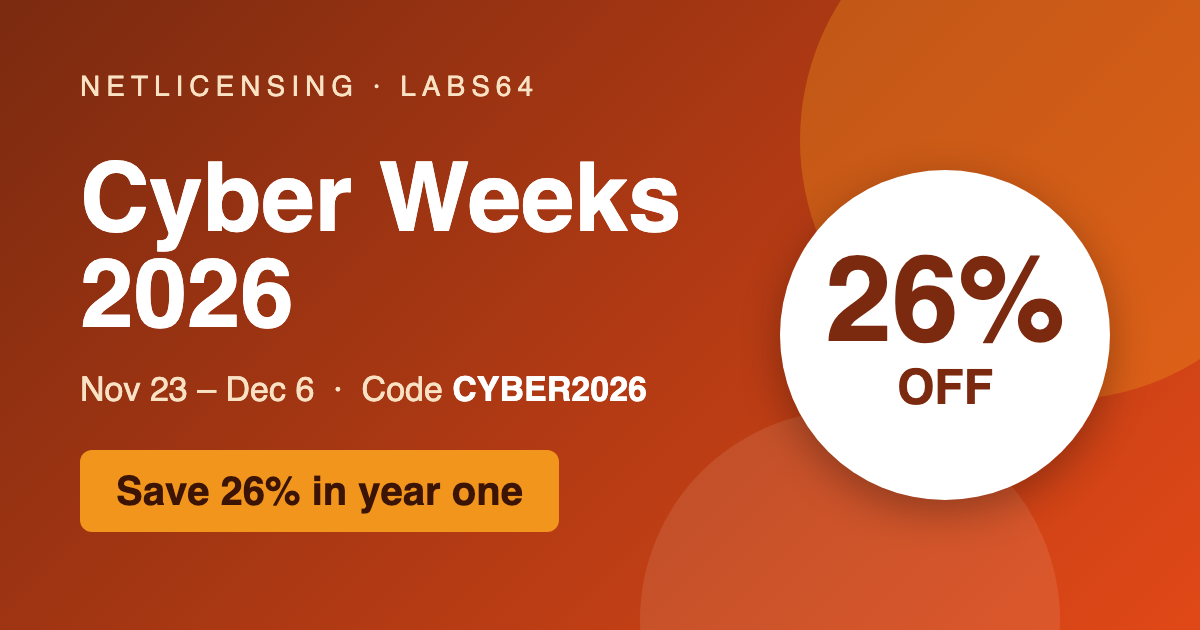
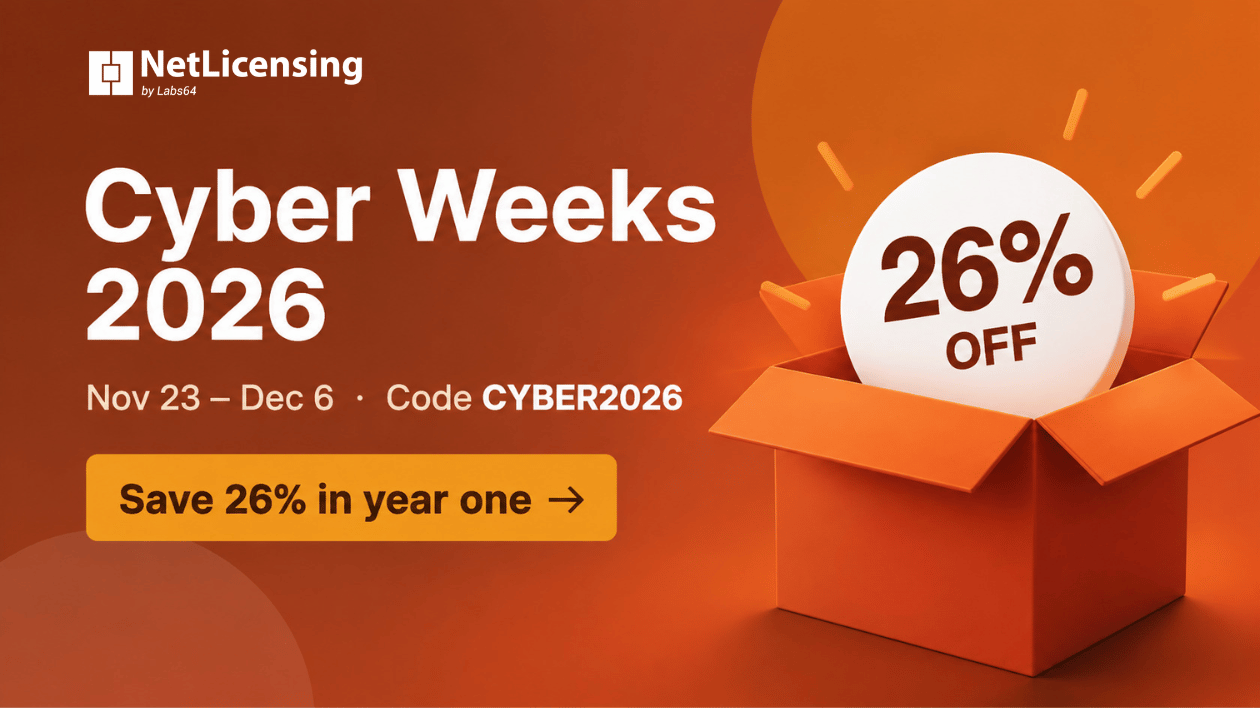
Publish caber weeks 2026 offer (fix text and hero image)

diff --git a/_posts/2026-11-20-labs64-netlicensing-cyber-weeks-2026.md b/_posts/2026-11-20-labs64-netlicensing-cyber-weeks-2026.md
@@ -38,7 +38,7 @@ Basic drops from 120 € to **89 €** a month, and Premium from 380 € to **28
 
 ## What you actually get for it
 
-Licensing that works while you sleep. Pick a licensing model (subscription, trial, feature-based, floating, pay-per-use), call a REST API from the language you already write, and see every customer and license in one console. No custom back office, no weekend lost to a key generator. Many teams are live within a day.
+Licensing that works while you sleep. Pick a licensing model (Subscription, Trial, Feature-based, Floating, Pay-per-use), call a REST API from the language you already write, and see every customer and license in one console. No custom back office, no weekend lost to a key generator. Many teams are live within a day.
 
 Still not sure? The free Community plan stays available, and the discount makes the upgrade easy the day you need it.
 
@@ -54,6 +54,7 @@ Still not sure? The free Community plan stays available, and the discount makes 
 ## Fine print, kept short
 
 The offer is for new customers and covers the first year, then the regular price applies. It can't be applied to upgrades of existing accounts. If you prefer an invoice to the online checkout, [write to us]({{ site.url }}/contact/) and mention the code.
+
 December 6 comes faster than you think. Your January self will be glad you did it now.
 
 *Happy Licensing!*
